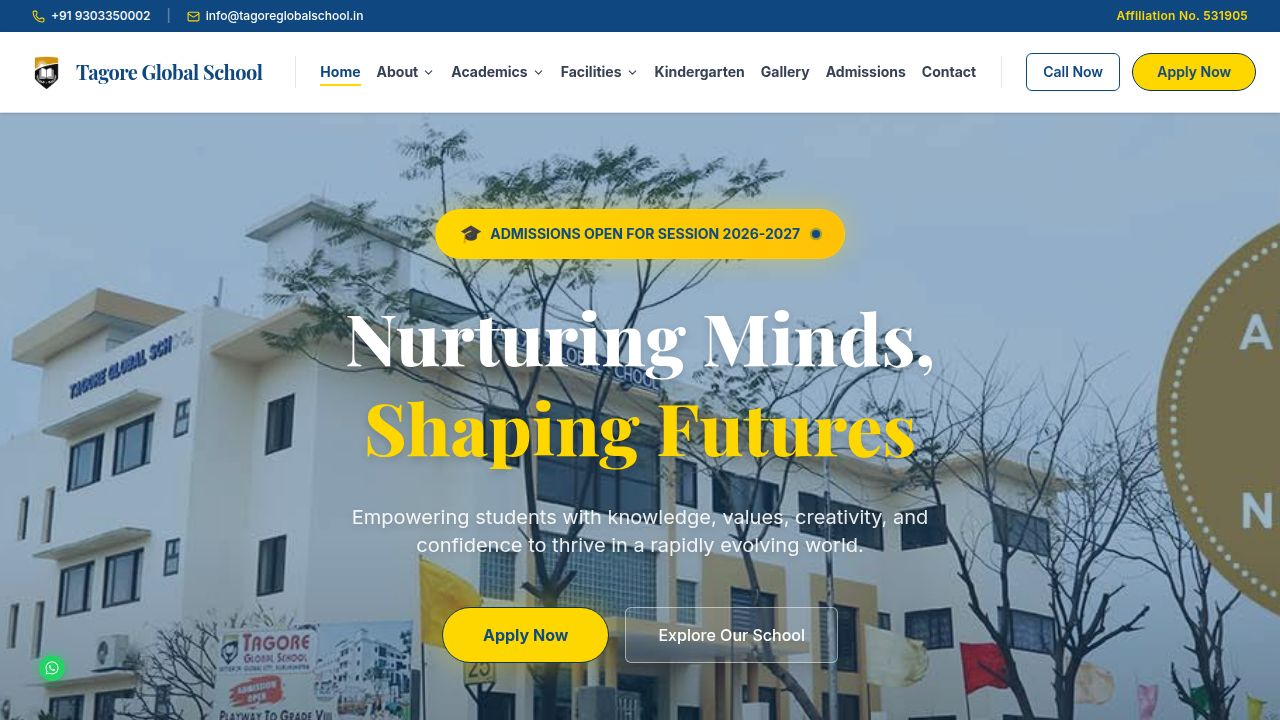
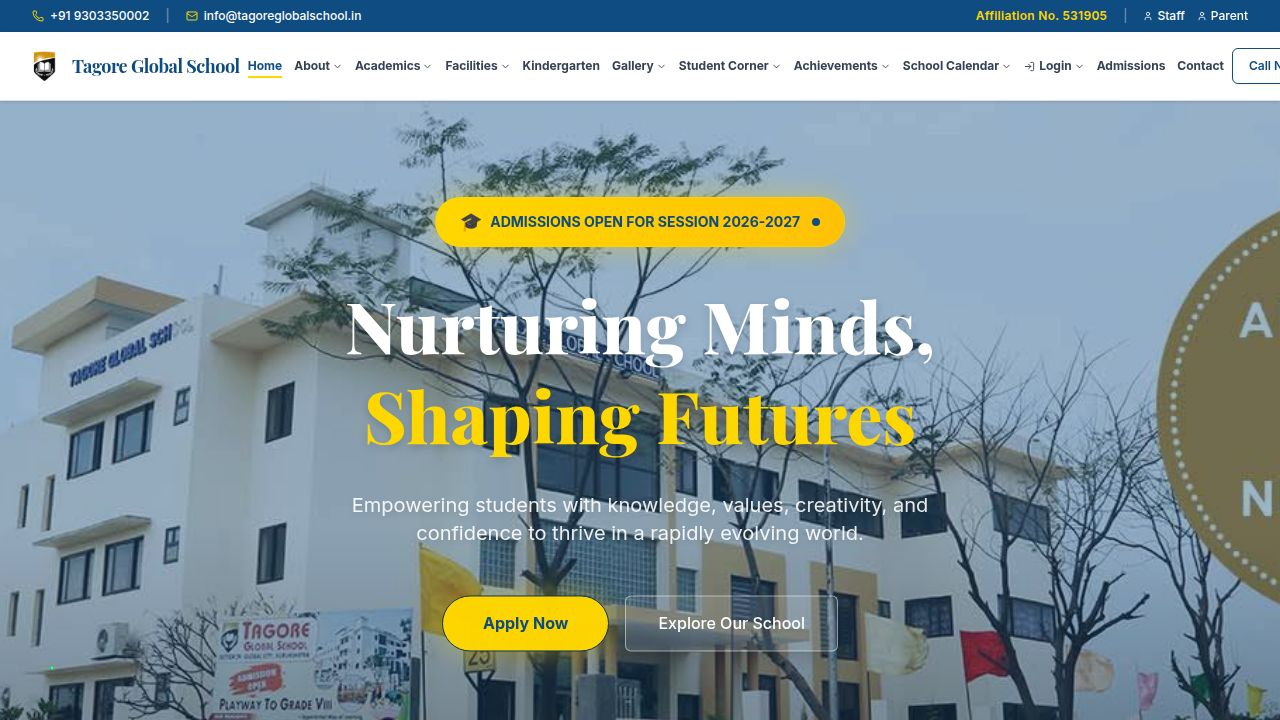
Make navigation links open their respective pages when clicked
Update navigation to separate link clicks from dropdown arrow clicks, and assign specific routes to formerly generic navigation items.

Replit-Commit-Author: Agent
Replit-Commit-Session-Id: 84c113b7-86d8-4567-b49b-68a6716b20ce
Replit-Commit-Checkpoint-Type: full_checkpoint
Replit-Commit-Event-Id: ad5b9461-fa7d-4eb0-825b-b53dc1e63f05
Replit-Commit-Screenshot-Url: https://storage.googleapis.com/screenshot-production-us-central1/90a73ebf-b7b3-4f64-9f36-793461130a6d/84c113b7-86d8-4567-b49b-68a6716b20ce/dLn1T2i
Replit-Helium-Checkpoint-Created: true

diff --git a/artifacts/tagore-school/src/components/layout/Header.tsx b/artifacts/tagore-school/src/components/layout/Header.tsx
@@ -90,6 +90,18 @@ const menuConfig: Record<string, { items: DropdownItem[]; mega?: boolean }> = {
   },
 };
 
+/* href to navigate to when clicking the label of a dropdown item */
+const navLabelHref: Record<string, string> = {
+  About: "/about",
+  Academics: "/academics",
+  Facilities: "/facilities",
+  Gallery: "/gallery",
+  "Student Corner": "/school-timings",
+  Achievements: "/board-results",
+  "School Calendar": "/academic-calendar",
+  Login: "/staff-login",
+};
+
 const navLinks = [
   { href: "/", label: "Home" },
   { href: "/about", label: "About" },
@@ -97,55 +109,23 @@ const navLinks = [
   { href: "/facilities", label: "Facilities" },
   { href: "/kindergarten", label: "Kindergarten" },
   { href: "/gallery", label: "Gallery" },
-  { href: "#", label: "Student Corner" },
-  { href: "#", label: "Achievements" },
-  { href: "#", label: "School Calendar" },
-  { href: "#", label: "Login" },
+  { href: "/school-timings", label: "Student Corner" },
+  { href: "/board-results", label: "Achievements" },
+  { href: "/academic-calendar", label: "School Calendar" },
+  { href: "/staff-login", label: "Login" },
   { href: "/admissions", label: "Admissions" },
   { href: "/contact", label: "Contact" },
 ];
 
-function MegaDropdown({ items, onClose }: { items: DropdownItem[]; onClose: () => void }) {
+function DropdownMenu({ items, onClose, mega }: { items: DropdownItem[]; onClose: () => void; mega?: boolean }) {
   return (
     <motion.div
-      initial={{ opacity: 0, y: 10, scale: 0.98 }}
-      animate={{ opacity: 1, y: 0, scale: 1 }}
-      exit={{ opacity: 0, y: 10, scale: 0.98 }}
-      transition={{ duration: 0.18 }}
-      className="absolute top-full left-1/2 -translate-x-1/2 mt-3 w-80 rounded-2xl bg-white shadow-2xl border border-gray-100 p-3 z-50"
-    >
-      <div className="grid grid-cols-1 gap-1">
-        {items.map((item) => (
-          <Link
-            key={item.href}
-            href={item.href}
-            onClick={onClose}
-            className="group flex items-center gap-3 rounded-xl px-4 py-3 text-sm text-gray-700 hover:bg-[#0F4C81] hover:text-white transition-all duration-200 font-medium"
-          >
-            {item.emoji && (
-              <span className="text-base w-6 text-center shrink-0">{item.emoji}</span>
-            )}
-            <span className="group-hover:translate-x-0.5 transition-transform duration-200">{item.label}</span>
-            <ChevronDown size={12} className="ml-auto -rotate-90 opacity-0 group-hover:opacity-100 transition-opacity" />
-          </Link>
-        ))}
-      </div>
-    </motion.div>
-  );
-}
-
-function SimpleDropdown({ items, onClose }: { items: DropdownItem[]; onClose: () => void }) {
-  return (
-    <motion.div
-      initial={{ opacity: 0, y: 8, scale: 0.97 }}
+      initial={{ opacity: 0, y: 10, scale: 0.97 }}
       animate={{ opacity: 1, y: 0, scale: 1 }}
       exit={{ opacity: 0, y: 8, scale: 0.97 }}
-      transition={{ duration: 0.15 }}
-      className="absolute top-full left-1/2 -translate-x-1/2 mt-3 w-60 rounded-2xl bg-white shadow-2xl border border-gray-100 p-2 z-50"
+      transition={{ duration: 0.16 }}
+      className={`absolute top-full left-1/2 -translate-x-1/2 mt-3 ${mega ? "w-80" : "w-60"} rounded-2xl bg-white shadow-2xl border border-gray-100 p-2 z-50`}
     >
-      <div className="absolute -top-2 left-1/2 -translate-x-1/2 w-4 h-2 overflow-hidden">
-        <div className="w-3 h-3 bg-white border-l border-t border-gray-100 rotate-45 mx-auto mt-1" />
-      </div>
       {items.map((item) => (
         <Link
           key={item.href}
@@ -153,8 +133,9 @@ function SimpleDropdown({ items, onClose }: { items: DropdownItem[]; onClose: ()
           onClick={onClose}
           className="group flex items-center gap-3 rounded-xl px-4 py-2.5 text-sm text-gray-700 hover:bg-[#0F4C81] hover:text-white transition-all duration-200 font-medium"
         >
-          {item.emoji && <span className="text-base w-5 text-center shrink-0">{item.emoji}</span>}
-          <span>{item.label}</span>
+          {item.emoji && <span className="text-base w-6 text-center shrink-0">{item.emoji}</span>}
+          <span className="group-hover:translate-x-0.5 transition-transform duration-200">{item.label}</span>
+          <ChevronDown size={12} className="ml-auto -rotate-90 opacity-0 group-hover:opacity-100 transition-opacity" />
         </Link>
       ))}
     </motion.div>
@@ -167,6 +148,7 @@ function NavItem({ link, isActive }: { link: { href: string; label: string }; is
   const config = menuConfig[link.label];
   const hasDropdown = !!config;
 
+  /* Close when clicking outside */
   useEffect(() => {
     function handleClickOutside(e: MouseEvent) {
       if (ref.current && !ref.current.contains(e.target as Node)) setOpen(false);
@@ -175,6 +157,7 @@ function NavItem({ link, isActive }: { link: { href: string; label: string }; is
     return () => document.removeEventListener("mousedown", handleClickOutside);
   }, []);
 
+  /* Plain nav item — no dropdown */
   if (!hasDropdown) {
     return (
       <Link
@@ -193,22 +176,19 @@ function NavItem({ link, isActive }: { link: { href: string; label: string }; is
     );
   }
 
-  const isMega = config.mega;
+  /* Nav item WITH dropdown — label navigates, arrow toggles */
+  const labelHref = navLabelHref[link.label] ?? link.href;
 
   return (
-    <div
-      ref={ref}
-      className="relative"
-      onMouseEnter={() => setOpen(true)}
-      onMouseLeave={() => setOpen(false)}
-    >
-      <button
-        onClick={() => setOpen(!open)}
-        className={`flex items-center gap-0.5 text-xs font-bold transition-colors hover:text-[#0F4C81] whitespace-nowrap ${isActive ? "text-[#0F4C81]" : "text-gray-700"}`}
+    <div ref={ref} className="relative flex items-center">
+      {/* Label → navigate to page */}
+      <Link
+        href={labelHref}
+        onClick={() => setOpen(false)}
+        className={`relative text-xs font-bold transition-colors hover:text-[#0F4C81] whitespace-nowrap ${isActive ? "text-[#0F4C81]" : "text-gray-700"}`}
       >
-        {link.label === "Login" && <LogIn size={11} className="mr-0.5" />}
+        {link.label === "Login" && <LogIn size={11} className="inline mr-0.5 align-middle" />}
         {link.label}
-        <ChevronDown size={11} className={`transition-transform duration-200 ${open ? "rotate-180" : ""}`} />
         {isActive && (
           <motion.div
             layoutId="navbar-indicator"
@@ -216,13 +196,27 @@ function NavItem({ link, isActive }: { link: { href: string; label: string }; is
             transition={{ type: "spring", stiffness: 300, damping: 30 }}
           />
         )}
+      </Link>
+
+      {/* Arrow → toggle dropdown only */}
+      <button
+        onClick={(e) => { e.stopPropagation(); setOpen(!open); }}
+        aria-label={`Open ${link.label} menu`}
+        className={`ml-0.5 p-0.5 rounded transition-colors hover:text-[#0F4C81] ${open ? "text-[#0F4C81]" : "text-gray-400"}`}
+      >
+        <ChevronDown
+          size={12}
+          className={`transition-transform duration-200 ${open ? "rotate-180" : ""}`}
+        />
       </button>
 
       <AnimatePresence>
         {open && (
-          isMega
-            ? <MegaDropdown items={config.items} onClose={() => setOpen(false)} />
-            : <SimpleDropdown items={config.items} onClose={() => setOpen(false)} />
+          <DropdownMenu
+            items={config.items}
+            mega={config.mega}
+            onClose={() => setOpen(false)}
+          />
         )}
       </AnimatePresence>
     </div>
@@ -236,8 +230,7 @@ export function Header() {
 
   const isActive = (link: { href: string; label: string }) => {
     if (link.href === "/") return location === "/";
-    if (link.href === "#") return false;
-    return location === link.href || (location.startsWith(link.href) && link.href !== "/");
+    return location === link.href || location.startsWith(link.href + "/");
   };
 
   return (
@@ -324,19 +317,26 @@ export function Header() {
                 const config = menuConfig[link.label];
                 const hasDropdown = !!config;
                 const isOpen = mobileDropdown === link.label;
+                const labelHref = navLabelHref[link.label] ?? link.href;
+
                 return (
                   <div key={link.label} className="border-b border-gray-100 last:border-0">
                     <div className="flex items-center justify-between">
+                      {/* Label → navigate */}
                       <Link
-                        href={link.href === "#" ? "/" : link.href}
-                        onClick={() => { if (!hasDropdown) setMobileMenuOpen(false); }}
+                        href={hasDropdown ? labelHref : link.href}
+                        onClick={() => setMobileMenuOpen(false)}
                         className={`flex-1 py-3 text-sm font-bold flex items-center gap-2 ${isActive(link) ? "text-[#0F4C81]" : "text-gray-700"}`}
                       >
                         {link.label === "Login" && <LogIn size={14} />}
                         {link.label}
                       </Link>
+                      {/* Arrow → toggle sub-menu */}
                       {hasDropdown && (
-                        <button onClick={() => setMobileDropdown(isOpen ? null : link.label)} className="p-2 text-gray-500">
+                        <button
+                          onClick={() => setMobileDropdown(isOpen ? null : link.label)}
+                          className="p-2 text-gray-400 hover:text-[#0F4C81] transition-colors"
+                        >
                           <ChevronDown size={16} className={`transition-transform duration-200 ${isOpen ? "rotate-180 text-[#0F4C81]" : ""}`} />
                         </button>
                       )}
